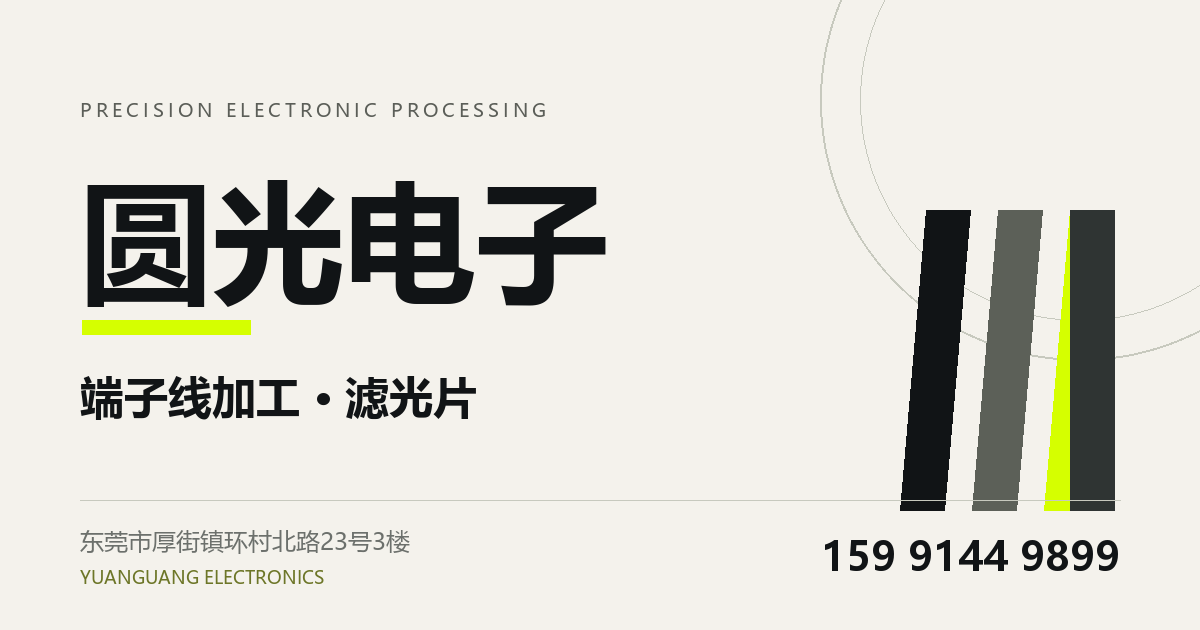
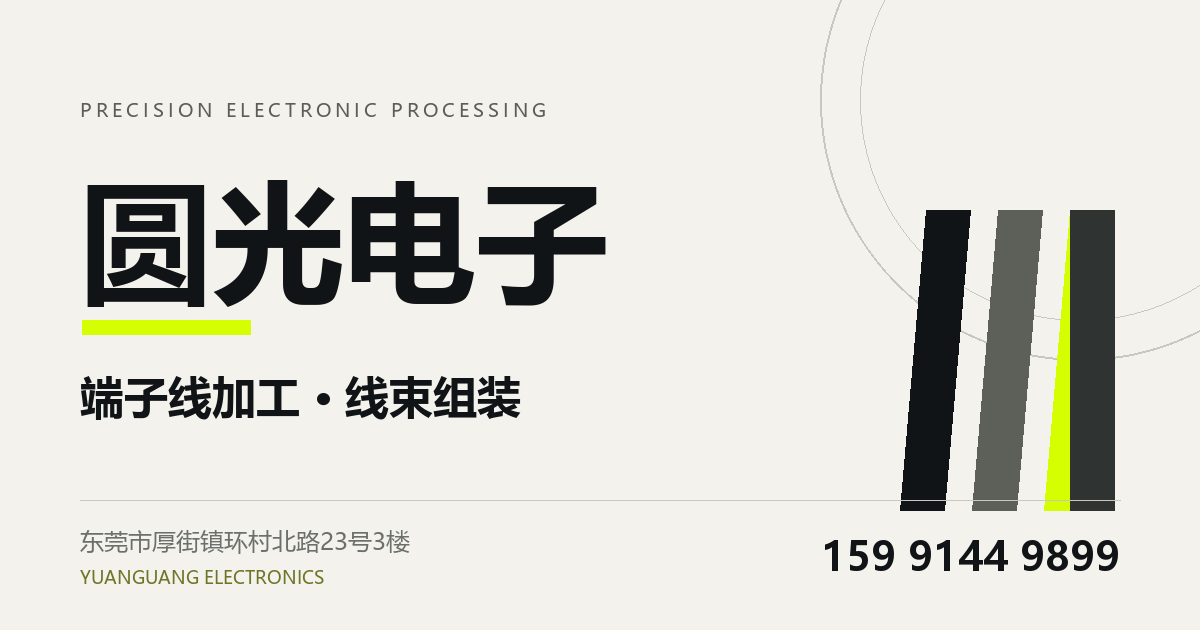
feat: drop the optical filter business line
- remove the 滤光片 service card, copy, footer line and 404 tagline

- rewrite title/description/OG/JSON-LD around terminal wire and harness assembly

- rebuild the services block as a single wide card with a product photo

- regenerate the share image with the new wording

Changed region(s): [[0.2775, 0.6032, 0.4317, 0.6635]]

diff --git a/public/index.html b/public/index.html
@@ -3,20 +3,20 @@
 <head>
   <meta charset="utf-8">
   <meta name="viewport" content="width=device-width, initial-scale=1">
-  <meta name="description" content="圆光电子专注端子线加工与滤光片，为电子制造提供稳定可靠的配套服务。">
-  <title>圆光电子｜端子线加工 · 滤光片</title>
+  <meta name="description" content="圆光电子专注精密端子线加工与线束组装，为电子制造提供稳定可靠的配套服务。">
+  <title>圆光电子｜精密端子线加工 · 线束组装</title>
   <link rel="canonical" href="https://yuanguang-r.com/">
   <meta name="theme-color" content="#f4f2ec">
   <meta property="og:type" content="website">
   <meta property="og:url" content="https://yuanguang-r.com/">
   <meta property="og:site_name" content="圆光电子">
-  <meta property="og:title" content="圆光电子｜端子线加工 · 滤光片">
-  <meta property="og:description" content="圆光电子专注端子线加工与滤光片，为电子制造提供响应迅速、品质稳定的配套服务。">
+  <meta property="og:title" content="圆光电子｜精密端子线加工 · 线束组装">
+  <meta property="og:description" content="圆光电子专注精密端子线加工与线束组装，为电子制造提供响应迅速、品质稳定的配套服务。">
   <meta property="og:locale" content="zh_CN">
   <meta property="og:image" content="https://yuanguang-r.com/static/og-image.png">
   <meta property="og:image:width" content="1200">
   <meta property="og:image:height" content="630">
-  <meta property="og:image:alt" content="圆光电子 · 端子线加工 · 滤光片">
+  <meta property="og:image:alt" content="圆光电子 · 端子线加工 · 线束组装">
   <meta name="twitter:card" content="summary_large_image">
   <meta name="twitter:image" content="https://yuanguang-r.com/static/og-image.png">
   <script type="application/ld+json">
@@ -24,7 +24,7 @@
     "@context": "https://schema.org",
     "@type": "LocalBusiness",
     "name": "圆光电子",
-    "description": "端子线加工与滤光片，为电子制造提供配套服务。",
+    "description": "精密端子线加工与线束组装，为电子制造提供配套服务。",
     "telephone": "+86-159-9144-9899",
     "url": "https://yuanguang-r.com/",
     "logo": "https://yuanguang-r.com/static/img/logo.png",
@@ -63,7 +63,7 @@
       <div class="hero-copy">
         <p class="eyebrow">PRECISION ELECTRONIC PROCESSING</p>
         <h1>让每一次连接<br><em>稳定可靠</em></h1>
-        <p class="intro">圆光电子专注端子线加工与滤光片，为电子制造提供响应迅速、品质稳定的配套服务。</p>
+        <p class="intro">圆光电子专注精密端子线加工与线束组装，为电子制造提供响应迅速、品质稳定的配套服务。</p>
         <div class="hero-actions">
           <a class="button primary" href="tel:15991449899">立即咨询 <span>→</span></a>
           <a class="button quiet" href="#products">看产品 <span>↓</span></a>
@@ -76,7 +76,7 @@
         <div class="terminal"><div></div><div></div><div></div></div>
         <div class="measure"><b>01</b><span>精密加工</span></div>
       </div>
-      <div class="hero-footer"><span>TERMINAL WIRE · FILTER · ASSEMBLY</span><span>SCROLL TO EXPLORE ↓</span></div>
+      <div class="hero-footer"><span>TERMINAL WIRE · HARNESS · ASSEMBLY</span><span>SCROLL TO EXPLORE ↓</span></div>
     </section>
 
     <section class="statement" id="about">
@@ -86,9 +86,18 @@
 
     <section class="services" id="services">
       <div class="section-title"><p class="eyebrow">WHAT WE DO</p><h2>核心业务</h2><span>02 / 04</span></div>
-      <div class="service-list">
-        <article class="service-card"><div class="number">01</div><div class="service-icon wire-icon"><i></i><i></i><i></i></div><h3>端子线加工</h3><p>面向各类电子设备的端子线加工需求，支持按图纸、样品与使用场景进行规格沟通。</p><a href="tel:15991449899">咨询加工需求 <span>↗</span></a></article>
-        <article class="service-card featured"><div class="number">02</div><div class="service-icon filter-icon"><i></i></div><h3>滤光片</h3><p>提供滤光片相关产品与加工服务，配合客户完成光学应用中的选型与对接。</p><a href="tel:15991449899">咨询产品需求 <span>↗</span></a></article>
+      <div class="service-list single">
+        <article class="service-card wide">
+          <div class="service-copy">
+            <div class="number">01</div>
+            <h3>端子线加工</h3>
+            <p>面向各类电子设备的端子线加工需求，支持按图纸、样品与使用场景进行规格沟通，覆盖单头、双头、多芯线束与排线等形式。</p>
+            <a href="tel:15991449899">咨询加工需求 <span>↗</span></a>
+          </div>
+          <figure class="service-shot">
+            <img src="/static/img/wire-harness-800.jpg" srcset="/static/img/wire-harness-400.jpg 400w, /static/img/wire-harness-800.jpg 800w" sizes="(max-width:760px) 92vw, 38vw" width="800" height="800" loading="lazy" decoding="async" alt="多色端子线束实拍">
+          </figure>
+        </article>
       </div>
     </section>
 
@@ -140,6 +149,6 @@
       </figure>
     </section>
   </main>
-  <footer><a class="brand" href="#top"><span>圆光电子 <small>YUANGUANG ELECTRONICS</small></span></a><p>端子线加工 · 滤光片</p><p>东莞市厚街镇环村北路23号3楼</p><p>© 2026 圆光电子</p></footer>
+  <footer><a class="brand" href="#top"><span>圆光电子 <small>YUANGUANG ELECTRONICS</small></span></a><p>端子线加工 · 线束组装</p><p>东莞市厚街镇环村北路23号3楼</p><p>© 2026 圆光电子</p></footer>
 </body>
 </html>

diff --git a/public/static/style.css b/public/static/style.css
@@ -65,3 +65,36 @@ footer .brand-logo{width:30px;height:30px}
 .measure{flex-direction:column;align-items:flex-start;gap:2px}
 .measure b{font:600 46px/1 "Barlow Condensed",sans-serif}
 .measure span{margin:0;font-size:12px;letter-spacing:.08em;color:#3c413b}
+/* ---------- single service card ---------- */
+.service-list.single{grid-template-columns:1fr}
+.service-card.wide{display:grid;grid-template-columns:minmax(0,1.05fr) minmax(0,.95fr);
+  gap:clamp(22px,3.6vw,56px);align-items:center;min-height:0;border-right:0;
+  padding:clamp(24px,3.2vw,42px)}
+.service-card.wide .service-copy{display:flex;flex-direction:column;align-items:flex-start}
+.service-card.wide .service-copy .number{margin-bottom:18px}
+.service-card.wide h3{font-size:clamp(26px,3vw,36px);margin:0 0 12px}
+.service-card.wide p{max-width:430px;margin:0 0 24px}
+.service-card.wide a{margin-top:0}
+.service-shot{margin:0;overflow:hidden;background:#fff;align-self:stretch}
+.service-shot img{display:block;width:100%;height:100%;aspect-ratio:1/1;object-fit:cover}
+
+@media(max-width:760px){
+  .service-card.wide{grid-template-columns:1fr;padding:24px 0}
+  .service-shot{order:-1;margin-bottom:22px}
+}
+/* keep the single service card compact */
+.service-card.wide{padding:clamp(22px,2.8vw,38px)}
+.service-shot{max-width:min(400px,34vw);width:100%;justify-self:end;align-self:center}
+.service-shot img{aspect-ratio:1/1;height:auto}
+.service-card.wide .service-copy{gap:0}
+.service-card.wide .service-copy .number{margin-bottom:14px}
+.service-card.wide h3{margin:0 0 10px}
+.service-card.wide p{margin:0 0 20px;font-size:14px;line-height:1.8}
+
+@media(max-width:760px){
+  .service-shot{max-width:100%;justify-self:stretch}
+}
+/* services: a touch tighter now that there is one card */
+.services{padding:96px clamp(22px,6vw,94px) 88px}
+.service-card.wide h3{font-size:clamp(28px,3.2vw,40px);letter-spacing:-.01em}
+.service-card.wide p{max-width:460px}

diff --git a/public/404.html b/public/404.html
@@ -33,6 +33,6 @@
   <p>地址可能输错了，或者页面已经调整。可以直接回到首页，也可以打电话找我们。</p>
   <a class="home" href="/">返回首页 →</a>
   <a class="tel" href="tel:15991449899">咨询热线 159 9144 9899</a>
-  <footer>圆光电子 · 端子线加工 · 滤光片</footer>
+  <footer>圆光电子 · 端子线加工 · 线束组装</footer>
 </body>
 </html>
